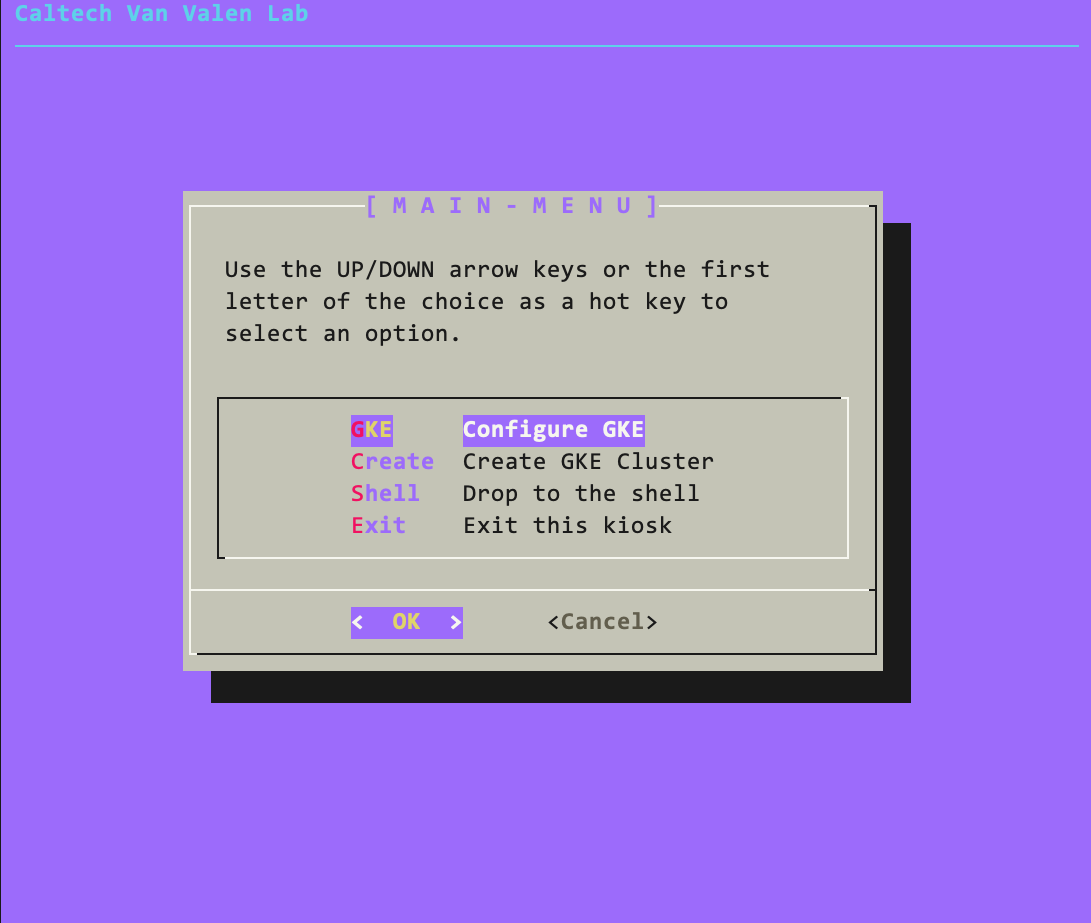
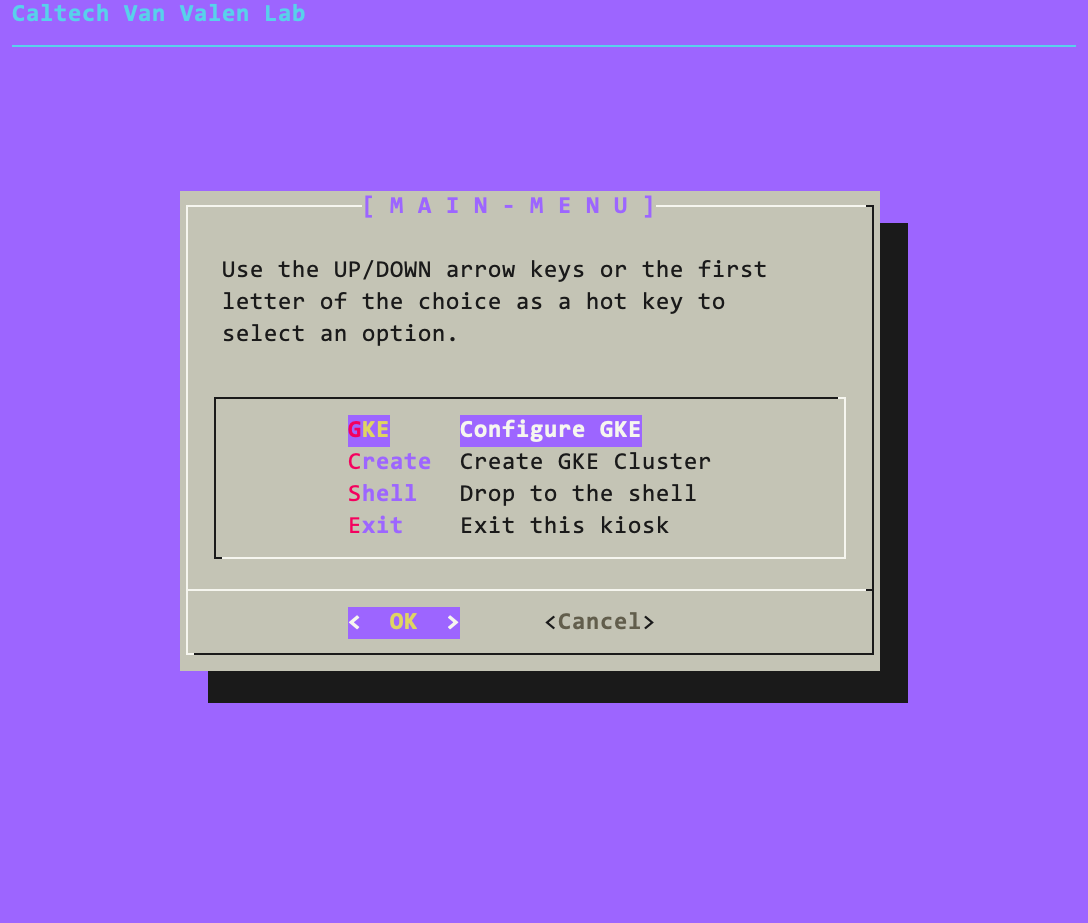
Update Getting Started  (#287)
* remove numbers and update version

* bold headline in rst

* copyedited for clarity and  correctness

* fix formatting

* change dev content to note

* change formatting in Usage

* update license badge with correct target

* update README cmd version to 1.1.0

* crop images to be the same size

diff --git a/docs/source/GETTING_STARTED.rst b/docs/source/GETTING_STARTED.rst
@@ -12,9 +12,9 @@ Getting Started
 Google Cloud Setup
 ------------------
 
-.. warning:: Google Cloud Platform must approve several requests which may take up to 1 day to complete.
+.. warning:: Google Cloud Platform must approve several requests that may take up to 1 day to complete.
 
-1. If necessary, create an account at `Google Cloud <https://cloud.google.com>`_ and create a Google Cloud project, making sure you have at least one account with the `Owner` role. Write down the project ID (you will need this in step 9).
+1. If necessary, create an account at `Google Cloud <https://cloud.google.com>`_ and create a Google Cloud project, making sure you have at least one account with the `Owner` role. Take note of the project ID (you will need this later during Kiosk configuration).
 
 2. Make sure the `Kubernetes Engine API <https://console.cloud.google.com/apis/api/container.googleapis.com/overview>`_ is enabled.
 
@@ -26,7 +26,7 @@ Google Cloud Setup
 
 .. note:: Google offers a number of GPU types. The DeepCell Kiosk uses `nvidia-tesla-t4` GPUs for inference by default.
 
-5. Create a `cloud storage bucket <https://cloud.google.com/storage/docs/creating-buckets>`_. This will be used to store data and models. Record the bucket name (you will need this in step 9). Please do not use underscores (`_`) in your bucket name. Your bucket should follow the organizational structure that follows:
+5. Create a `cloud storage bucket <https://cloud.google.com/storage/docs/creating-buckets>`_. This will be used to store data and models. Record the bucket name (as with project ID, you will need this during Kiosk configuration). Please do not use underscores (`_`) in your bucket name. Your bucket should follow the organizational structure that follows:
 
    .. code-block:: bash
 
@@ -37,7 +37,7 @@ Google Cloud Setup
        |-- uploads
        |-- output
 
-   | ``/models`` can be changed by modifying the ``MODEL_PREFIX`` environmental variable in the ``tf-serving`` helmfile. Similarly, ``/uploads`` can be configured by modifying ``UPLOAD_PREFIX`` in the ``frontend`` helmfile. The contents of ``/uploads`` and ``/output`` are managed by the |kiosk-bucket-monitor|.
+   Please note that the Kiosk comes "preloaded" with a few commonly used models. These models are hosted in our public ``deepcell-models`` bucket on Google Cloud. However, if you wish to use custom models, you can do so by altering the ``GCLOUD_STORAGE_BUCKET`` environmental variable in the ``tf-serving`` helmfile. The contents of ``/uploads`` and ``/output`` are managed by the |kiosk-bucket-monitor|.
 
 .. |kiosk-bucket-monitor| raw:: html
 
@@ -50,10 +50,10 @@ Launching the DeepCell Kiosk
 
 One of the enabling technologies the DeepCell Kiosk utilizes is `Docker <https://www.docker.com/>`_ (*FREE Community Edition*). Installation is easy for Linux and MacOS, but the setup can be complicated for Windows. For this reason, we recommend Windows users employ an `Ubuntu VM <https://brb.nci.nih.gov/seqtools/installUbuntu.html>`_ or follow the cloud jumpbox workflow outlined below.
 
-If you plan on maintaining the DeepCell kiosk as a persistent tool, we recommend using the jumpbox workflow, which allows you to manage the kiosk from a Google Cloud VM. This prevents computer shutdowns from interfering with your ability to manage the kiosk.
+If you plan on maintaining the DeepCell Kiosk as a persistent tool, we recommend using the jumpbox workflow, which allows you to manage the system from a Google Cloud VM. This prevents unexpected or accidental computer shutdowns that occur locally from interfering with your ability to manage the Kiosk.
 
 .. _DOCKER_INSTALLATION:
-6. Select the docker installation that is best for you:
+**Select the docker installation that is best for you:**
 
    * `Local Docker Installation - Windows`_
    * `Local Docker Installation - MacOS and Linux`_
@@ -73,7 +73,7 @@ Cloud-Based Jumpbox Workflow
 * Navigate to the `VM instances <https://console.cloud.google.com/compute/instances>`_ page via ``Compute Engine > VM instances``
 * Check that your boot disk is configured for ``Debian/Ubuntu 9`` operating system
 
-.. warning:: Container optimized images do not support kiosk installation.
+.. warning:: Container optimized images do not support Kiosk installation.
 
 * All other settings can be left as defaults
 * After creating the instance, SSH into your instance either using the option provided by Google Cloud or through your local terminal.
@@ -88,22 +88,20 @@ Cloud-Based Jumpbox Workflow
     sudo apt-get update && \
     sudo apt-get install -y containerd.io docker-ce docker-ce-cli git make vim
 
-* Alternatively, if you SSH'd in using Google Cloud's browser-based terminal, you will need to break that large clump of commands into individual commands (each semicolon denotes the end of a command) and paste them one at a time onto the command line. After this, you should see the kiosk GUI screen and can follow the kiosk configuration and launch process as usual.
-
 Starting the Kiosk
 ^^^^^^^^^^^^^^^^^^
 
-You are now ready to start the kiosk! Those interested in Kiosk development should follow a different path to start the kiosk which is described in :ref:`DEVELOPER`.
+You are now ready to start the Kiosk!
 
-7. Start a terminal shell and install the DeepCell Kiosk wrapper script:
+* Start a terminal shell and install the DeepCell Kiosk wrapper script:
 
 .. code-block:: bash
 
-    docker run -e DOCKER_TAG=1.0.0 vanvalenlab/kiosk:1.0.0 | sudo bash
+    docker run -e DOCKER_TAG=1.1.0 vanvalenlab/kiosk:1.1.0 | sudo bash
 
 .. note:: This command and the one that follows may need to be preceded by `sudo` depending on your permission settings.
 
-8. To start the kiosk, just run ``kiosk`` from the terminal shell
+* To start the Kiosk, just run ``kiosk`` from the terminal shell
 
 .. list-table::
 
@@ -112,17 +110,21 @@ You are now ready to start the kiosk! Those interested in Kiosk development shou
     * - .. image:: ../images/Kiosk-Welcome.png
       - .. image:: ../images/Kiosk-Main-Menu.png
 
+.. note:: Those interested in Kiosk development should follow a different path to start the Kiosk which is described in :ref:`DEVELOPER`.
+
 DeepCell Kiosk Usage
 --------------------
 
-9. Once the Kiosk has started, select the configuration option for your chosen cloud provider (currently, only Google Cloud is supported). The next screen will prompt you to authenticate your account with gcloud or to continue with a previously authenticated account. The next several screens will prompt you to select a gcloud project, name your cluster and finally enter a bucket name for data storage. To complete cluster configuration you have the option to choose between "Default" and "Advanced" configuration. "Default" will set standard values for compute hardware and will be appropriate for most users. "Advanced" allows configure each setting individually.
+* Once the Kiosk has started, select the configuration option for your chosen cloud provider (currently, only Google Cloud is supported). The next screen will prompt you to authenticate your account with gcloud or to continue with a previously authenticated account. The next several screens will prompt you to select a gcloud project, name your cluster, and enter a bucket name for data storage. If you followed the Google Cloud Setup instructions from above, you should use that project and bucket name.
 
-10. At the completion of configuration, you will return to the home screen where you can select the "Create" option to trigger creation of the cluster based on your configured values. This may take up to 10 minutes. Following successful creation, you will see a confirmation page.
+* To complete cluster configuration, you have the option to choose between "Default" and "Advanced" configuration. The "Default" configuration option sets standard values for compute hardware and is appropriate for most users. The "Advanced" option allows users to configure each setting individually.
 
-11. Find the cluster's web address by choosing the ``View`` option form the Kiosk's main menu. (Depending on your chosen cloud provider and the cloud provider's settings, your cluster's address might be either a raw IP address, e.g., "123.456.789.012", or a URL, e.g., "deepcellkiosk.cloudprovider.com".)
+* Once cluster configuration is complete, you will return to the home screen. There you can select the "Create" option to trigger cluster creation based on your configured values. This may take up to 10 minutes. Following successful creation, you will see a confirmation page.
 
-12. Go to the cluster address in your web browser to find the DeepCell Kiosk frontpage. To run a job (load raw data and download the results) use the ``PREDICT`` tab.
+* Find the cluster's web address by choosing the ``View`` option form the Kiosk's main menu. (Depending on your chosen cloud provider and the cloud provider's settings, your cluster's address might be either a raw IP address, e.g., ``123.456.789.012``, or a URL, e.g., ``deepcellkiosk.cloudprovider.com``.)
 
-13. The ``Predict`` page on DeepCell.org allows for different job types (ie: nuclear segmentation and or nuclear tracking). Each job type requires a specific model. For example models and data, refer to `DeepCell.org <https://deepcell.org/data>`_.
+* Go to the cluster address in your web browser to find the DeepCell Kiosk frontpage. To run a job (load raw data and download the results) use the ``Predict`` tab.
+
+* The ``Predict`` page on DeepCell.org allows for different job types (ie: nuclear segmentation and/or nuclear tracking). Each job type requires a specific model. For example models and data, refer to `DeepCell.org <https://deepcell.org/data>`_.
 
 .. note:: The first prediction may take some time as the model server comes online.

diff --git a/README.md b/README.md
@@ -2,7 +2,7 @@
 
 [![Build Status](https://travis-ci.com/vanvalenlab/kiosk.svg?branch=master)](https://travis-ci.com/vanvalenlab/kiosk)
 [![Read the Docs](https://img.shields.io/readthedocs/kiosk?logo=Read%20the%20Docs)](https://deepcell-kiosk.readthedocs.io/en/master)
-[![Apache 2.0](https://img.shields.io/badge/License-Apache%202.0-blue.svg)](https://opensource.org/licenses/Apache-2.0)
+[![Apache 2.0](https://img.shields.io/badge/License-Apache%202.0-blue.svg)](https://github.com/vanvalenlab/kiosk/blob/master/LICENSE)
 
 The DeepCell Kiosk is the entry point for users to spin up an end-to-end DeepCell environment in the cloud using [Kubernetes](https://kubernetes.io/). It is designed to allow researchers to easily deploy and scale a deep learning platform for biological image analysis. Once launched, users can drag-and-drop images to be processed in parallel using publicly available, or custom-built, TensorFlow models. To train custom models, please refer to [DeepCell-TF](https://github.com/vanvalenlab/deepcell-tf), which was designed to facilitate model development and export these models for use with the DeepCell Kiosk.
 
@@ -46,7 +46,7 @@ Tracked Image
 Start a terminal shell and install the DeepCell Kiosk wrapper script:
 
 ```bash
-docker run -e DOCKER_TAG=1.0.0 vanvalenlab/kiosk:1.0.0 | sudo bash
+docker run -e DOCKER_TAG=1.1.0 vanvalenlab/kiosk:1.1.0 | sudo bash
 ```
 
 To start the kiosk, just run `kiosk` from the terminal shell.
@@ -84,7 +84,7 @@ A [FAQ](http://www.deepcell.org.faq) page is also available.
 
 ## License
 
-This software is license under a modified [APACHE2](https://opensource.org/licenses/Apache-2.0). See [LICENSE](https://github.com/vanvalenlab/kiosk/blob/master/LICENSE) for full  details.
+This software is license under a modified [APACHE2](https://opensource.org/licenses/Apache-2.0). See [LICENSE](https://github.com/vanvalenlab/kiosk/blob/master/LICENSE) for full details.
 
 ## Trademarks
 
